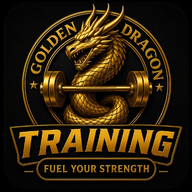
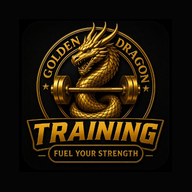
Add files via upload

diff --git a/index.html b/index.html
@@ -10,6 +10,9 @@
 <meta name="apple-mobile-web-app-title" content="GD Training">
 <link rel="manifest" href="manifest.json">
 <link rel="apple-touch-icon" href="icon-192.png">
+<link rel="apple-touch-startup-image" href="splash-1170x2532.png" media="(device-width: 390px) and (device-height: 844px) and (-webkit-device-pixel-ratio: 3)">
+<link rel="apple-touch-startup-image" href="splash-828x1792.png" media="(device-width: 414px) and (device-height: 896px) and (-webkit-device-pixel-ratio: 2)">
+<meta name="apple-mobile-web-app-status-bar-style" content="black">
 <title>Golden Dragon Training</title>
 <style>
 :root{--bg:#050505;--card:#151515;--card2:#101010;--gold:#c9a84c;--gold2:#f2d47a;--text:#f7f7f7;--muted:#999;--border:#2a2a2a;--red:#d9534f;--green:#4caf74}